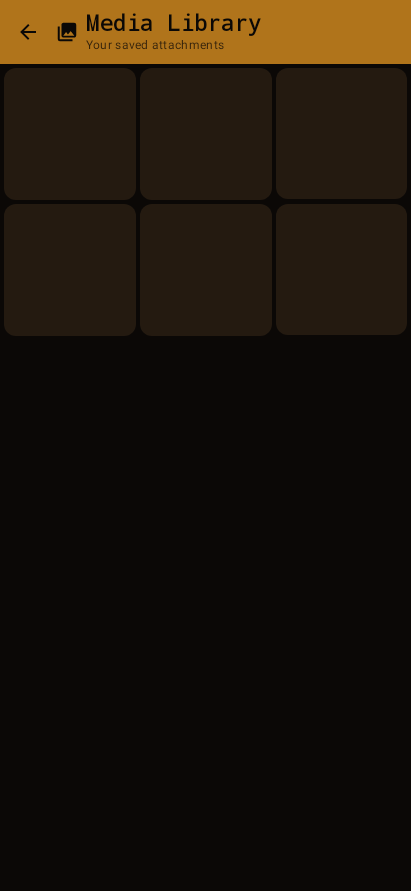
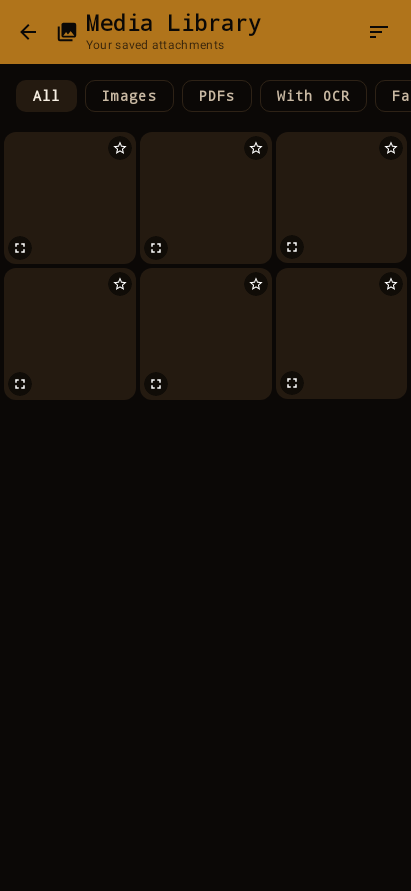
chore(screenshots): regen goldens for V25-V32 series close (V31 FINAL)
Regenerated 13 gallery PNGs (ScreenshotGalleryTest force-records, no
diff-gate) reflecting screens changed across the V25-V32 series:
approvals, events, payments, media, tracking, analytics, home,
preferences, card/purchase-request details. Wear PNGs untouched -
V31 MISC's timeText stub still holds, no drift.

Also fixes 3 stale unit tests uncovered by the full-gate run, each a
root-cause fix in the test, not the production code:
- TrackingSearchProviderTest: SavedTrack gained a required `duration`
  param; test fixture didn't pass it (compile failure).
- CreatePaymentViewModelTest: asserted SUBMITTING immediately after
  Submit, before the StandardTestDispatcher had run the launched
  coroutine; added runCurrent().
- ExpenseEntryRouteCodecTest: asserted Event context falls back to a
  bare route, but Event is now fully wired (encode+decode) - updated
  to assert a real round-trip, matching the other variants. Doc
  comment in LoggingNavigation.kt updated to match.

diff --git a/feature/logging/src/commonMain/kotlin/com/mileway/feature/logging/ui/navigation/LoggingNavigation.kt b/feature/logging/src/commonMain/kotlin/com/mileway/feature/logging/ui/navigation/LoggingNavigation.kt
@@ -89,8 +89,9 @@ object LoggingRoutes {
      * through a plain route string, so every feature still meets feature:logging only at :app's
      * composition root (never a direct feature→feature dependency; see CLAUDE.md's module-
      * boundary rule). The P27.E.5/7/8 variants (Trip/Card/Advance) plus, since P27.E.1 merged the
-     * old edit-details route into this single one, [ExpenseSourceContext.Edit] are encoded richly;
-     * every other variant (including the default [ExpenseSourceContext.Regular]) falls back to the
+     * old edit-details route into this single one, [ExpenseSourceContext.Edit] and
+     * [ExpenseSourceContext.Event] are encoded richly; every other variant (including the default
+     * [ExpenseSourceContext.Regular]) falls back to the
      * bare "no context" entry — identical to the pre-existing plain "Add Expense" tap. Reverse of
      * [decodeExpenseSourceContext].
      */

diff --git a/feature/payments/src/commonTest/kotlin/com/mileway/feature/payments/viewmodel/CreatePaymentViewModelTest.kt b/feature/payments/src/commonTest/kotlin/com/mileway/feature/payments/viewmodel/CreatePaymentViewModelTest.kt
@@ -15,6 +15,7 @@ import kotlinx.coroutines.ExperimentalCoroutinesApi
 import kotlinx.coroutines.test.StandardTestDispatcher
 import kotlinx.coroutines.test.advanceUntilIdle
 import kotlinx.coroutines.test.resetMain
+import kotlinx.coroutines.test.runCurrent
 import kotlinx.coroutines.test.runTest
 import kotlinx.coroutines.test.setMain
 import kotlin.test.AfterTest
@@ -79,6 +80,7 @@ class CreatePaymentViewModelTest {
             fillForm(vm, amount = "100")
 
             vm.onAction(CreatePaymentAction.Submit)
+            runCurrent()
             assertEquals(PaymentTransactionStatus.SUBMITTING, vm.state.value.transactionStatus)
 
             advanceUntilIdle()

diff --git a/feature/logging/src/commonTest/kotlin/com/mileway/feature/logging/ui/navigation/ExpenseEntryRouteCodecTest.kt b/feature/logging/src/commonTest/kotlin/com/mileway/feature/logging/ui/navigation/ExpenseEntryRouteCodecTest.kt
@@ -83,9 +83,8 @@ class ExpenseEntryRouteCodecTest {
     }
 
     @Test
-    fun `a variant this task did not wire falls back to a bare entry`() {
-        val route = LoggingRoutes.expenseEntryRoute(ExpenseSourceContext.Event("evt-1", "Annual Summit"))
-        assertEquals("expense/entry", route)
-        assertEquals(ExpenseSourceContext.None, decode(route))
+    fun `Event round-trips through the route string`() {
+        val ctx = ExpenseSourceContext.Event(eventId = "evt-1", eventLabel = "Annual Summit")
+        assertEquals(ctx, decode(LoggingRoutes.expenseEntryRoute(ctx)))
     }
 }

diff --git a/feature/tracking/src/commonTest/kotlin/com/mileway/feature/tracking/search/TrackingSearchProviderTest.kt b/feature/tracking/src/commonTest/kotlin/com/mileway/feature/tracking/search/TrackingSearchProviderTest.kt
@@ -32,6 +32,7 @@ class TrackingSearchProviderTest {
             startTime = 1_700_000_000_000L,
             endTime = 1_700_003_600_000L,
             distance = 12_000.0,
+            duration = 3_600_000L,
         )
 
     private fun point(
